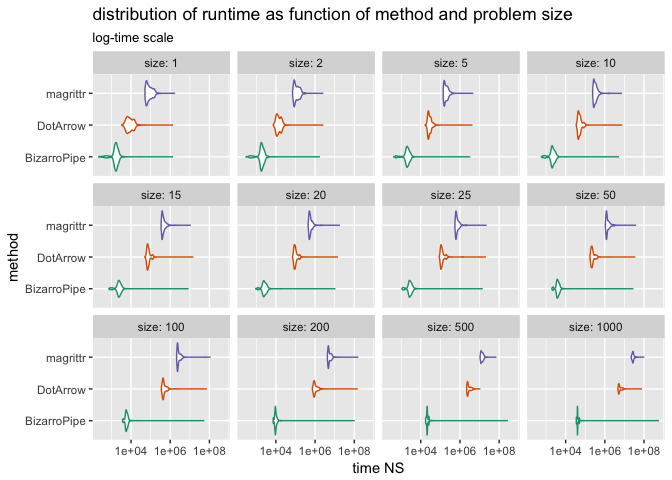
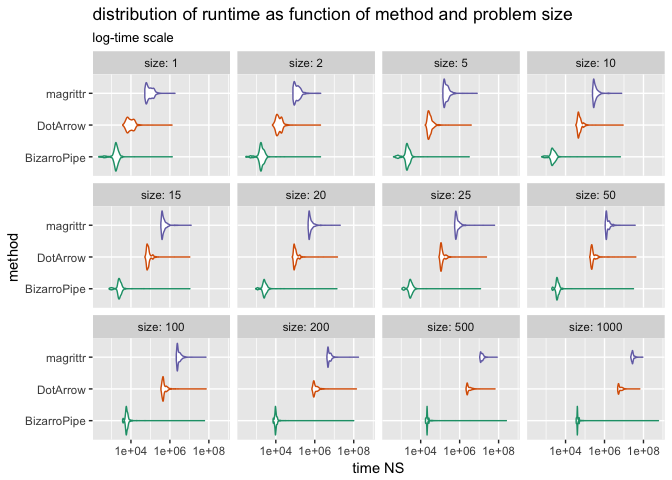
edit and re-run

diff --git a/extras/PipePerformance.md b/extras/PipePerformance.md
@@ -4,9 +4,9 @@ Keep in mind for any *serious* application the calculation time on data will far
 
 So we will compare:
 
--   `magrittr*` `magrittr::%>%` substitution.
--   `DotArrow*` `wrapr::%.>%` substitution.
--   `BizarroPipe*` `->.;` substitution.
+-   `magrittr*` `magrittr::%>%` piping.
+-   `DotArrow*` `wrapr::%.>%` piping.
+-   `BizarroPipe*` `->.;` piping.
 
 ``` r
 library("microbenchmark")
@@ -124,79 +124,79 @@ print(bm)
 
     ## Unit: nanoseconds
     ##                expr      min         lq         mean     median         uq
-    ##     BizarroPipe_1()      226     1451.5     3073.388     1710.0     2020.0
-    ##        DotArrow_1()     3399     6311.5    10960.226     8400.0    12234.0
-    ##        magrittr_1()    51563    62392.0    96210.794    78167.0   112172.0
-    ##     BizarroPipe_2()      301     1655.5     3615.250     1905.5     2286.5
-    ##        DotArrow_2()     7417    11005.5    17173.361    13420.5    17945.0
-    ##        magrittr_2()    71178    87227.0   126123.348   109092.0   149839.5
-    ##     BizarroPipe_5()      413     1776.0     5258.844     2083.0     2490.5
-    ##        DotArrow_5()    16564    23923.5    34814.715    26818.5    32473.0
-    ##        magrittr_5()   140340   158722.0   210880.070   188033.0   232612.5
-    ##    BizarroPipe_10()      586     1872.0     7183.610     2159.5     2649.0
-    ##       DotArrow_10()    34786    44012.0    64027.275    49869.5    58536.5
-    ##       magrittr_10()   239798   276751.0   360681.928   317073.5   375586.0
-    ##    BizarroPipe_15()      747     2068.5    10572.351     2427.0     2865.5
-    ##       DotArrow_15()    50390    67274.0    94111.351    73584.0    83614.5
-    ##       magrittr_15()   343770   386401.5   508935.113   424565.5   508126.5
-    ##    BizarroPipe_20()      941     2200.5    12900.858     2560.5     3085.0
-    ##       DotArrow_20()    70570    86628.5   122932.077    95550.0   108929.0
-    ##       magrittr_20()   444640   507337.0   653964.198   554364.5   653730.0
-    ##    BizarroPipe_25()     1101     2464.0    16581.396     2810.0     3316.5
-    ##       DotArrow_25()    88728   106344.5   161903.129   117039.5   137180.5
-    ##       magrittr_25()   553256   621487.0   780145.463   677510.0   813299.0
-    ##    BizarroPipe_50()     1991     3550.0    30843.050     3949.0     4542.5
-    ##       DotArrow_50()   175679   205205.0   289839.507   225568.5   261596.0
-    ##       magrittr_50()  1068384  1201436.5  1499192.711  1289780.5  1557395.0
-    ##   BizarroPipe_100()     3715     5341.5    57339.328     5842.0     6547.0
-    ##      DotArrow_100()   354255   417899.0   594851.072   452806.5   552232.0
-    ##      magrittr_100()  2126916  2343174.0  3066243.276  2490463.0  3083770.0
-    ##   BizarroPipe_200()     7254     9040.0   110353.522     9556.0    10359.5
-    ##      DotArrow_200()   727334   870134.0  1226515.314   950500.0  1191301.5
-    ##      magrittr_200()  4256147  4709369.0  5830680.017  5040547.5  6219399.5
-    ##   BizarroPipe_500()    17689    20423.5   285866.857    21215.0    22358.5
-    ##      DotArrow_500()  2207562  2408531.0  2957094.314  2553525.5  3353286.0
-    ##      magrittr_500() 10670267 11961561.0 13941130.201 13374642.0 15067881.5
-    ##  BizarroPipe_1000()    35055    39647.5   586863.439    40430.5    42015.5
-    ##     DotArrow_1000()  4722164  5150269.0  6360691.370  5426054.0  6948660.0
-    ##     magrittr_1000() 22350755 25585482.0 28207694.217 27239544.0 29197504.0
+    ##     BizarroPipe_1()      223     1450.5     3042.800     1704.0     2015.0
+    ##        DotArrow_1()     3814     6541.5    12424.995     8772.0    12853.0
+    ##        magrittr_1()    51479    62541.0   101455.019    83377.5   125001.0
+    ##     BizarroPipe_2()      291     1554.0     3889.358     1800.0     2259.5
+    ##        DotArrow_2()     6784    11079.5    17550.867    13644.0    19006.0
+    ##        magrittr_2()    75767    90329.0   142984.105   117321.0   158600.0
+    ##     BizarroPipe_5()      403     1780.5     5212.444     2058.5     2503.0
+    ##        DotArrow_5()    17151    24345.5    35926.211    28151.0    34415.5
+    ##        magrittr_5()   137932   162278.0   239053.456   197304.5   251206.5
+    ##    BizarroPipe_10()      591     1885.0     8852.037     2201.0     2738.5
+    ##       DotArrow_10()    33964    44462.0    64763.019    49750.0    59228.0
+    ##       magrittr_10()   242076   278208.5   368409.124   311659.0   380460.0
+    ##    BizarroPipe_15()      757     2233.5    13420.592     2538.0     2981.0
+    ##       DotArrow_15()    52322    66608.0    94327.757    74315.5    84371.5
+    ##       magrittr_15()   343500   395121.5   523396.727   439235.0   533167.5
+    ##    BizarroPipe_20()      924     2286.0    16449.091     2604.0     3091.5
+    ##       DotArrow_20()    69623    86461.0   124867.739    95763.5   110531.0
+    ##       magrittr_20()   455972   514032.5   668856.030   564054.5   680252.0
+    ##    BizarroPipe_25()     1103     2582.5    14843.743     2973.5     3507.5
+    ##       DotArrow_25()    86934   107146.0   157891.106   116907.5   136437.5
+    ##       magrittr_25()   554952   632000.0   873522.579   697587.5   853869.0
+    ##    BizarroPipe_50()     1969     3430.5    34512.485     3780.5     4322.5
+    ##       DotArrow_50()   173835   212084.5   324047.065   231036.5   274433.0
+    ##       magrittr_50()  1084363  1220441.0  1567185.864  1303327.5  1677804.5
+    ##   BizarroPipe_100()     3726     5522.5    65718.201     5938.5     6686.0
+    ##      DotArrow_100()   347799   420497.0   604768.874   458170.0   559596.0
+    ##      magrittr_100()  2128653  2386251.0  3066232.741  2592979.5  3296936.5
+    ##   BizarroPipe_200()     7209     9221.5   109945.228     9731.5    10550.0
+    ##      DotArrow_200()   716868   874016.0  1259461.428   954484.0  1272027.5
+    ##      magrittr_200()  4209192  4755430.0  6063837.117  5184378.5  6476041.0
+    ##   BizarroPipe_500()    17649    20783.0   276567.545    21342.0    22718.5
+    ##      DotArrow_500()  2142531  2419576.5  3148125.854  2582553.5  3423126.0
+    ##      magrittr_500() 10764596 12092576.0 14363287.174 13653379.0 15512648.5
+    ##  BizarroPipe_1000()    35108    39645.0   629563.380    40491.5    42683.0
+    ##     DotArrow_1000()  4751244  5193870.5  6484469.055  5628264.0  7324629.0
+    ##     magrittr_1000() 22340141 25896045.5 29198092.538 27575497.0 29908192.5
     ##        max neval
-    ##    1327990  1000
-    ##    1325586  1000
-    ##    1661000  1000
-    ##    1651533  1000
-    ##    2475916  1000
-    ##    2451826  1000
-    ##    3140186  1000
-    ##    4081814  1000
-    ##    4513917  1000
-    ##    4949999  1000
-    ##    7315646  1000
-    ##    7053937  1000
-    ##    8108798  1000
-    ##   14359380  1000
-    ##   10488140  1000
-    ##   10195019  1000
-    ##   13676048  1000
-    ##   17272650  1000
-    ##   13649410  1000
-    ##   19765553  1000
-    ##   21657400  1000
-    ##   26728284  1000
-    ##   33481564  1000
-    ##   37005550  1000
-    ##   51266300  1000
-    ##   70225446  1000
-    ##  108386743  1000
-    ##   98727860  1000
-    ##  141129422  1000
-    ##  149585199  1000
-    ##  263803977  1000
-    ##   10396681  1000
-    ##   67986923  1000
-    ##  544726576  1000
-    ##   73819285  1000
-    ##   96596682  1000
+    ##    1312662  1000
+    ##    1282194  1000
+    ##    1815532  1000
+    ##    1959195  1000
+    ##    1955750  1000
+    ##    2009213  1000
+    ##    3082939  1000
+    ##    3902866  1000
+    ##    7921555  1000
+    ##    6507407  1000
+    ##    8972479  1000
+    ##    7590817  1000
+    ##   10614314  1000
+    ##   10458728  1000
+    ##   12260598  1000
+    ##   13669700  1000
+    ##   14501473  1000
+    ##   20160148  1000
+    ##   11771805  1000
+    ##   23659671  1000
+    ##   61862316  1000
+    ##   30578136  1000
+    ##   40459797  1000
+    ##   37373252  1000
+    ##   59400940  1000
+    ##   72311249  1000
+    ##   70872219  1000
+    ##   99764489  1000
+    ##  136890724  1000
+    ##  174935489  1000
+    ##  249443844  1000
+    ##   65575058  1000
+    ##   84600522  1000
+    ##  586765055  1000
+    ##   64848392  1000
+    ##   92018863  1000
 
 ``` r
 autoplot(bm)
@@ -283,17 +283,17 @@ dfits <- d %.>%
 print(dfits)
 ```
 
-    ##        method        coef    Estimate  Std. Error      t value
-    ## 1 BizarroPipe (Intercept)    715.3056 58787.48847   0.01216765
-    ## 2 BizarroPipe        size    581.8819   178.34327   3.26270720
-    ## 3    DotArrow (Intercept) -15495.5141 19544.46333  -0.79283395
-    ## 4    DotArrow        size   6286.7531    59.29193 106.03050754
-    ## 5    magrittr (Intercept)  99423.0080 29018.69332   3.42617108
-    ## 6    magrittr        size  28054.3596    88.03384 318.67698168
-    ##       Pr(>|t|)
-    ## 1 0.9902920618
-    ## 2 0.0011066198
-    ## 3 0.4278902489
-    ## 4 0.0000000000
-    ## 5 0.0006142065
-    ## 6 0.0000000000
+    ##        method        coef     Estimate  Std. Error       t value
+    ## 1 BizarroPipe (Intercept)     35.78478 61925.88670  5.778647e-04
+    ## 2 BizarroPipe        size    612.85658   187.86421  3.262232e+00
+    ## 3    DotArrow (Intercept)  -9399.41395 18604.47148 -5.052234e-01
+    ## 4    DotArrow        size   6453.01708    56.44028  1.143335e+02
+    ## 5    magrittr (Intercept) 103716.33958 31861.11817  3.255264e+00
+    ## 6    magrittr        size  29010.22635    96.65689  3.001361e+02
+    ##      Pr(>|t|)
+    ## 1 0.999538940
+    ## 2 0.001108476
+    ## 3 0.613411231
+    ## 4 0.000000000
+    ## 5 0.001136012
+    ## 6 0.000000000
